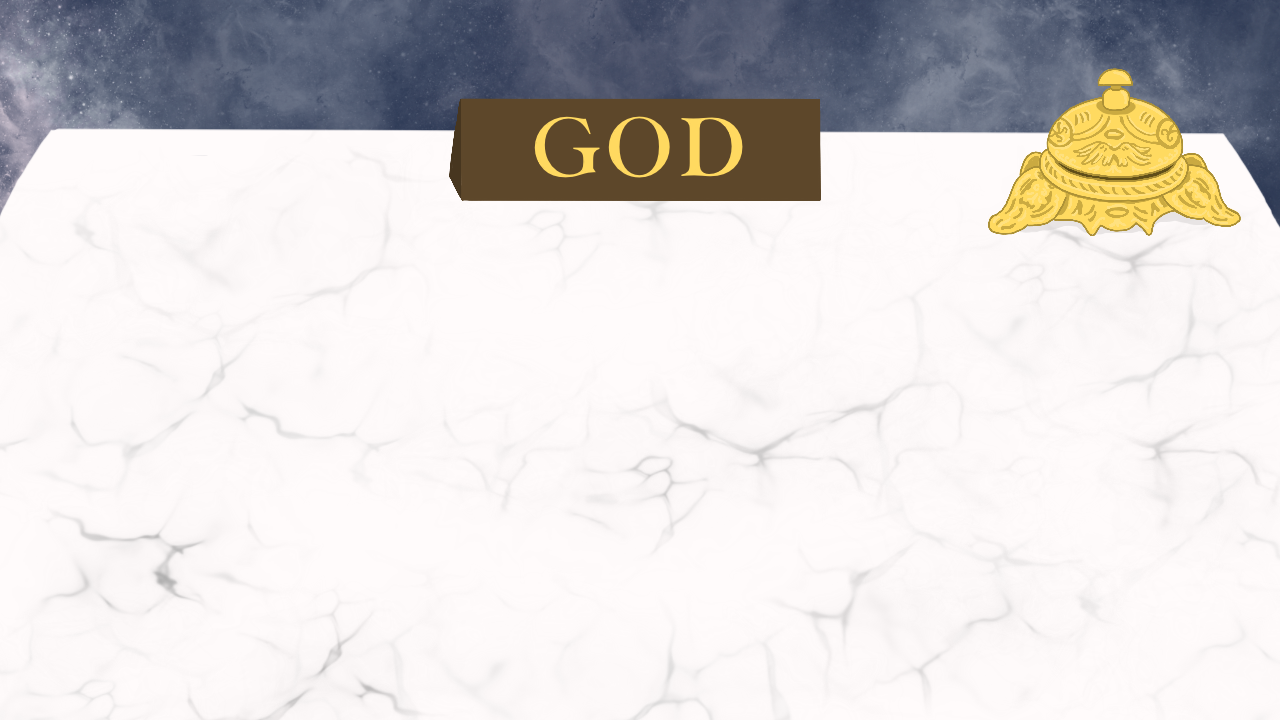
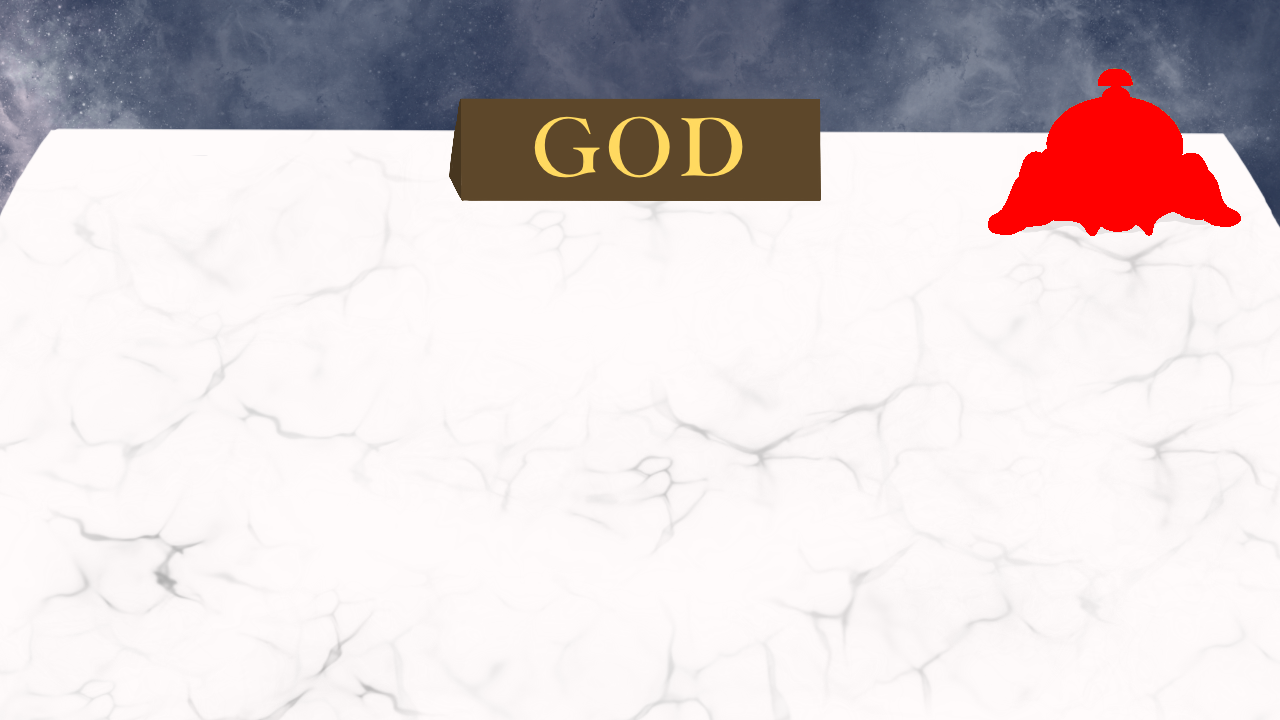
Add background and bell

Changed region(s): [[0.75, 0.0917, 0.9688, 0.3361]]

diff --git a/gmtk_jam_2025/src/application.cpp b/gmtk_jam_2025/src/application.cpp
@@ -1,4 +1,5 @@
 #include "components/animation.h"
+#include "components/draw.h"
 #include "components/generic.h"
 #include "components/input.h"
 #include "components/sprite.h"
@@ -30,16 +31,20 @@ struct DiskDragScript : public Script<DiskDragScript> {
 	}
 
 	virtual void OnPickup([[maybe_unused]] Entity dropzone) {
-		dropzone.Add<DiskIndex>(-1);
-		PTGN_LOG("Setting dropzone ", dropzone.GetPosition(), " to -1");
+		if (dropzone.Get<Dropzone>().dropped_entities.empty()) {
+			dropzone.Add<DiskIndex>(-1);
+			entity.GetChild("disk_out").Show();
+			// PTGN_LOG("Setting dropzone ", dropzone.GetPosition(), " to -1");
+		}
 	}
 
 	virtual void OnDrop([[maybe_unused]] Entity dropzone) {
-		if (dropzone.Get<Dropzone>().entities.empty()) {
+		if (dropzone.Get<Dropzone>().dropped_entities.empty()) {
 			dropzone.Add<DiskIndex>(entity.Get<DiskIndex>());
-			PTGN_LOG(
+			entity.GetChild("disk_out").Hide();
+			/*PTGN_LOG(
 				"Setting dropzone ", dropzone.GetPosition(), " to ", dropzone.Get<DiskIndex>()
-			);
+			);*/
 			entity.GetPosition() = dropzone.GetAbsolutePosition();
 		}
 	}
@@ -56,11 +61,15 @@ Entity CreateTablet(Scene& scene, const TextureHandle& texture_handle) {
 Entity CreateDisk(
 	Scene& scene, const V2_float& position, const TextureHandle& texture_handle, int index
 ) {
-	Animation entity = CreateAnimation(scene, texture_handle, 2);
+	auto out		 = CreateSprite(scene, "disk_out");
+	Animation entity = CreateSprite(scene, texture_handle);
+	entity.AddChild(out, "disk_out");
 	entity.SetPosition(position);
 	entity.Enable();
 	auto circle = entity.CreateChild();
-	circle.Add<Circle>(entity.GetDisplaySize().x / 2.0f);
+	circle.Add<Circle>(
+		entity.GetDisplaySize().x / 2.0f
+	); // CreateCircle(scene, {}, entity.GetDisplaySize().x / 2.0f, color::Magenta, 1.0f);
 	entity.AddInteractable(circle);
 	// entity.Hide();
 	entity.Add<DiskIndex>(index);
@@ -71,7 +80,7 @@ Entity CreateDisk(
 
 Entity CreateDiskSlot(Scene& scene, const V2_float& position, Sprite tablet) {
 	// Size of the interactable.
-	float radius{ game.texture.GetSize("baby").x / 2.0f };
+	float radius{ game.texture.GetSize("disk_out").x / 2.0f };
 	Entity entity = scene.CreateEntity(
 	); // CreateCircle(scene, position, radius, color::Cyan, -1.0f); // scene.CreateEntity();
 	entity.SetParent(tablet);
@@ -83,7 +92,7 @@ Entity CreateDiskSlot(Scene& scene, const V2_float& position, Sprite tablet) {
 	entity.Enable();
 	// entity.Hide();
 	auto circle = entity.CreateChild();
-	circle.Add<Circle>(radius);
+	circle.Add<Circle>(radius); // CreateCircle(scene, {}, radius, color::Magenta, 1.0f);
 	entity.AddInteractable(circle);
 	entity.Add<Dropzone>().trigger = DropTrigger::MouseOverlaps;
 	return entity;
@@ -97,6 +106,15 @@ public:
 
 	std::vector<Entity> disk_slots;
 
+	// @return True if all the slots are not -1.
+	bool AllFilled(const std::vector<Entity>& items) {
+		auto it = std::find_if(items.begin(), items.end(), [](const Entity& item) {
+			return item.Get<DiskIndex>().GetValue() == -1;
+		});
+		return it == items.end();
+	}
+
+	// @return True if all the slots are consecutive disk indices.
 	bool CheckPattern(const std::vector<Entity>& items) {
 		if (items.empty()) {
 			return false;
@@ -125,12 +143,16 @@ public:
 
 	Button submit;
 
+	void FlyInTablet(const json& j) {
+		tablet = CreateTablet(*this, j.at("tablet"));
+	}
+
 	void CreateLevel(const json& j) {
 		PTGN_ASSERT(j.contains("tablet"));
 		PTGN_ASSERT(j.at("tablet").is_string());
 
 		tablet.Destroy();
-		tablet = CreateTablet(*this, j.at("tablet"));
+		FlyInTablet(j);
 
 		for (Entity slot : disk_slots) {
 			slot.Destroy();
@@ -180,7 +202,7 @@ public:
 
 	void Enter() override {
 		input.SetDrawInteractives(true);
-		input.SetTopOnly(true);
+		input.SetTopOnly(false);
 
 		auto levels{ game.json.Get("game_json") };
 		PTGN_ASSERT(levels.contains("level"));
@@ -189,21 +211,32 @@ public:
 		PTGN_ASSERT(levels.contains(level_name), "Level must be set to a valid level entry");
 		auto level{ levels.at(level_name) };
 
+		CreateSprite(*this, "game_bg").SetOrigin(Origin::TopLeft);
+
 		CreateLevel(level);
+
+		Entity submit_interactable = CreateEntity().SetPosition({ 1114, 152 }
+		); /*CreateCircle(*this, { 1114, 152 }, 56.0f, color::Magenta, 1.0f)*/
+		submit_interactable.Add<Circle>(56.0f);
 
 		submit = CreateButton(*this)
 					 .SetTextureKey("submit")
-					 .SetButtonTint(color::Gray)
-					 .SetButtonTint(color::DarkGray, ButtonState::Pressed)
+					 .SetButtonTint(color::White)
+					 .SetButtonTint(color::Gray, ButtonState::Hover)
+					 .SetButtonTint(color::Gray, ButtonState::Pressed)
 					 .OnActivate([]() { PTGN_LOG("Submit"); })
-					 .SetPosition(center + V2_float{ 450, 0 });
+					 .SetInteractable(submit_interactable, false)
+					 .SetOrigin(Origin::TopLeft)
+					 .SetPosition({ 988, 69 });
 	}
 
 	void Update() {
 		if (CheckPattern(disk_slots)) {
 			submit.SetButtonTint(color::Cyan);
+		} else if (AllFilled(disk_slots)) {
+			submit.SetButtonTint(color::Red);
 		} else {
-			submit.SetButtonTint(color::Gray);
+			submit.SetButtonTint(color::White);
 		}
 	}
 };
